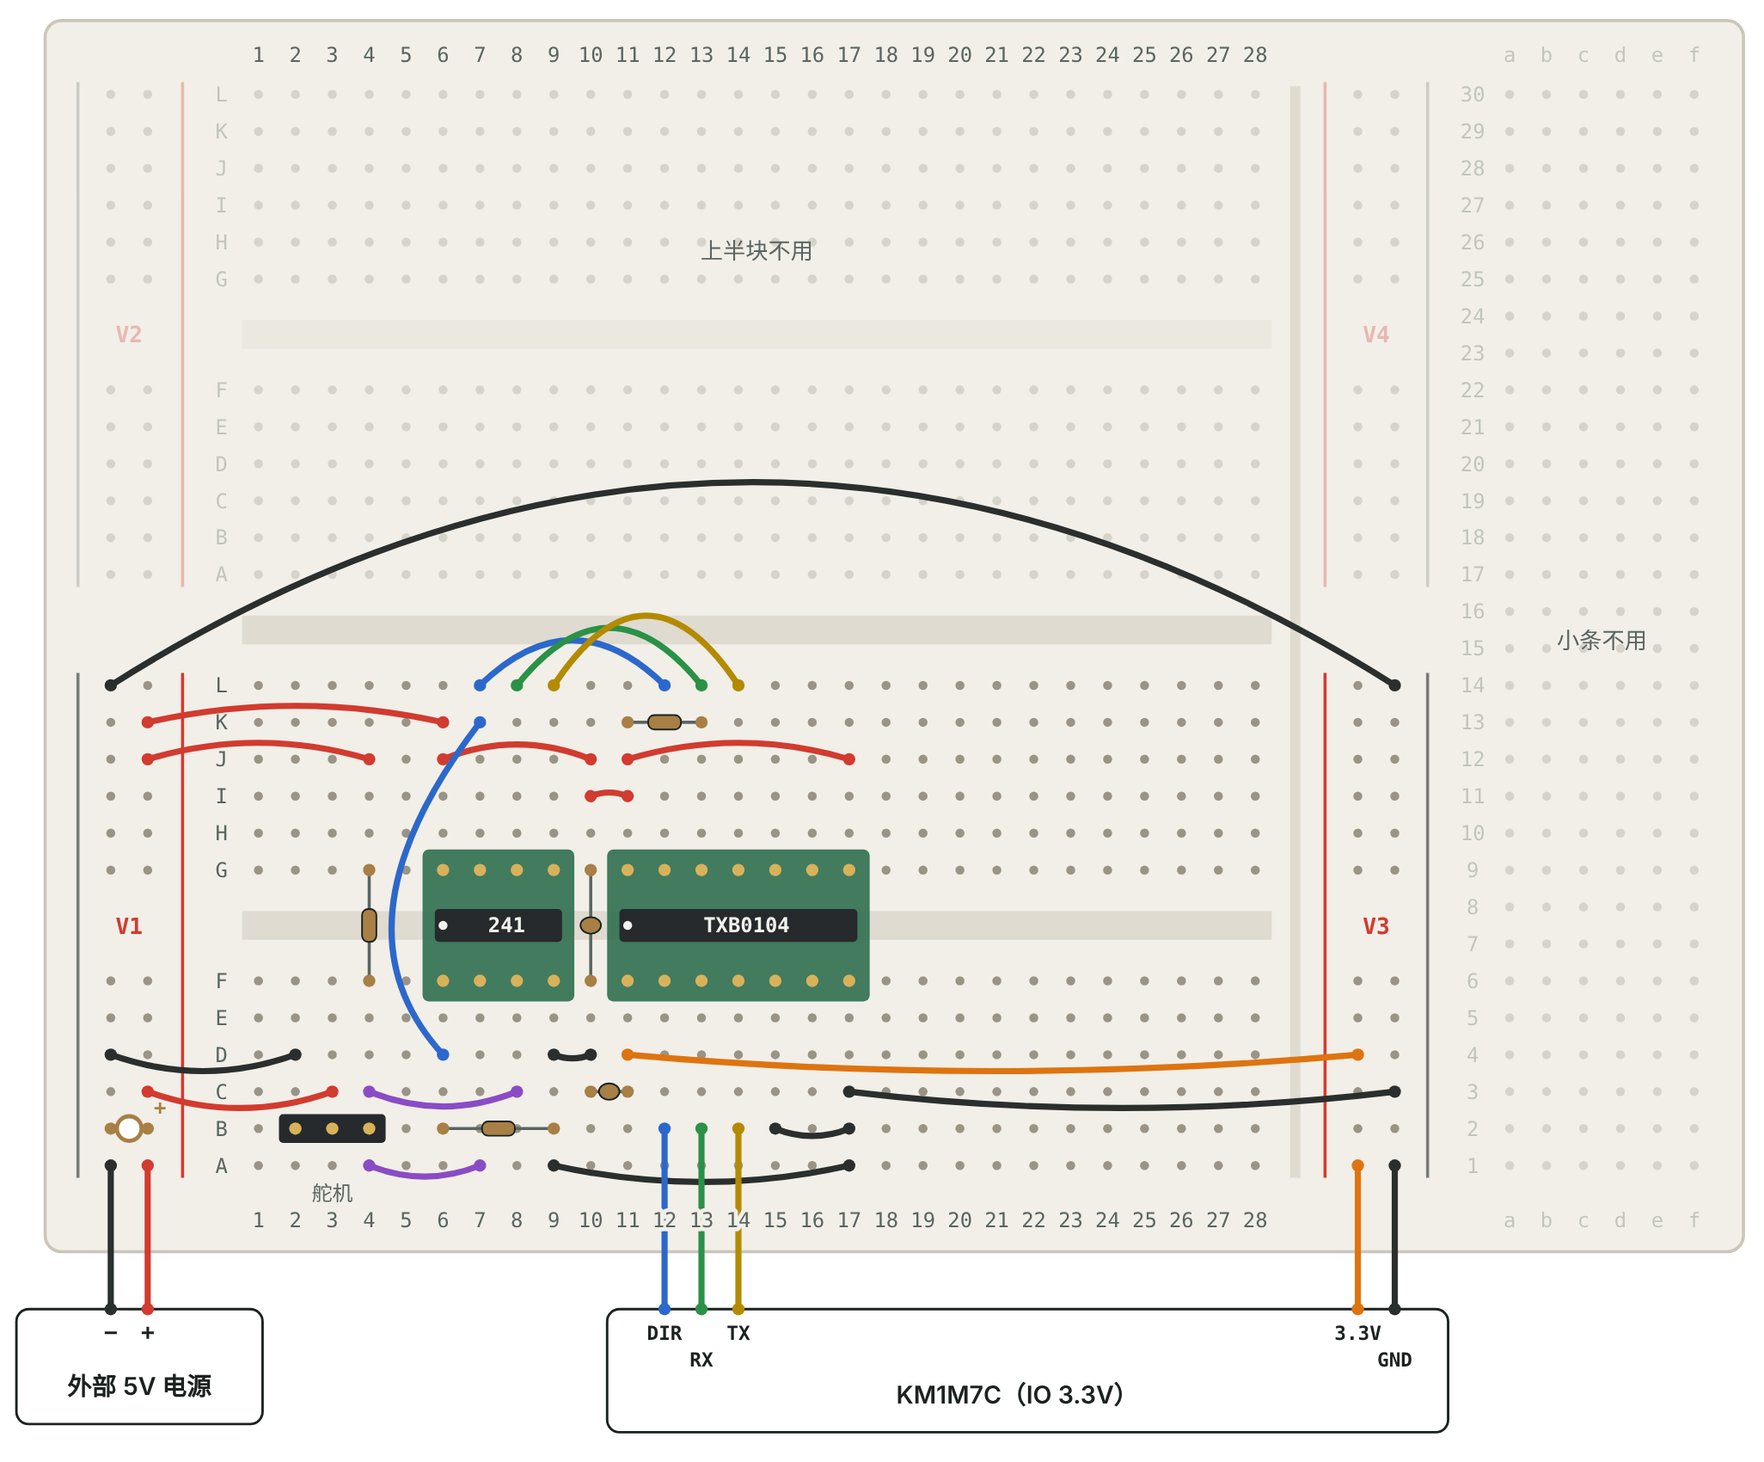
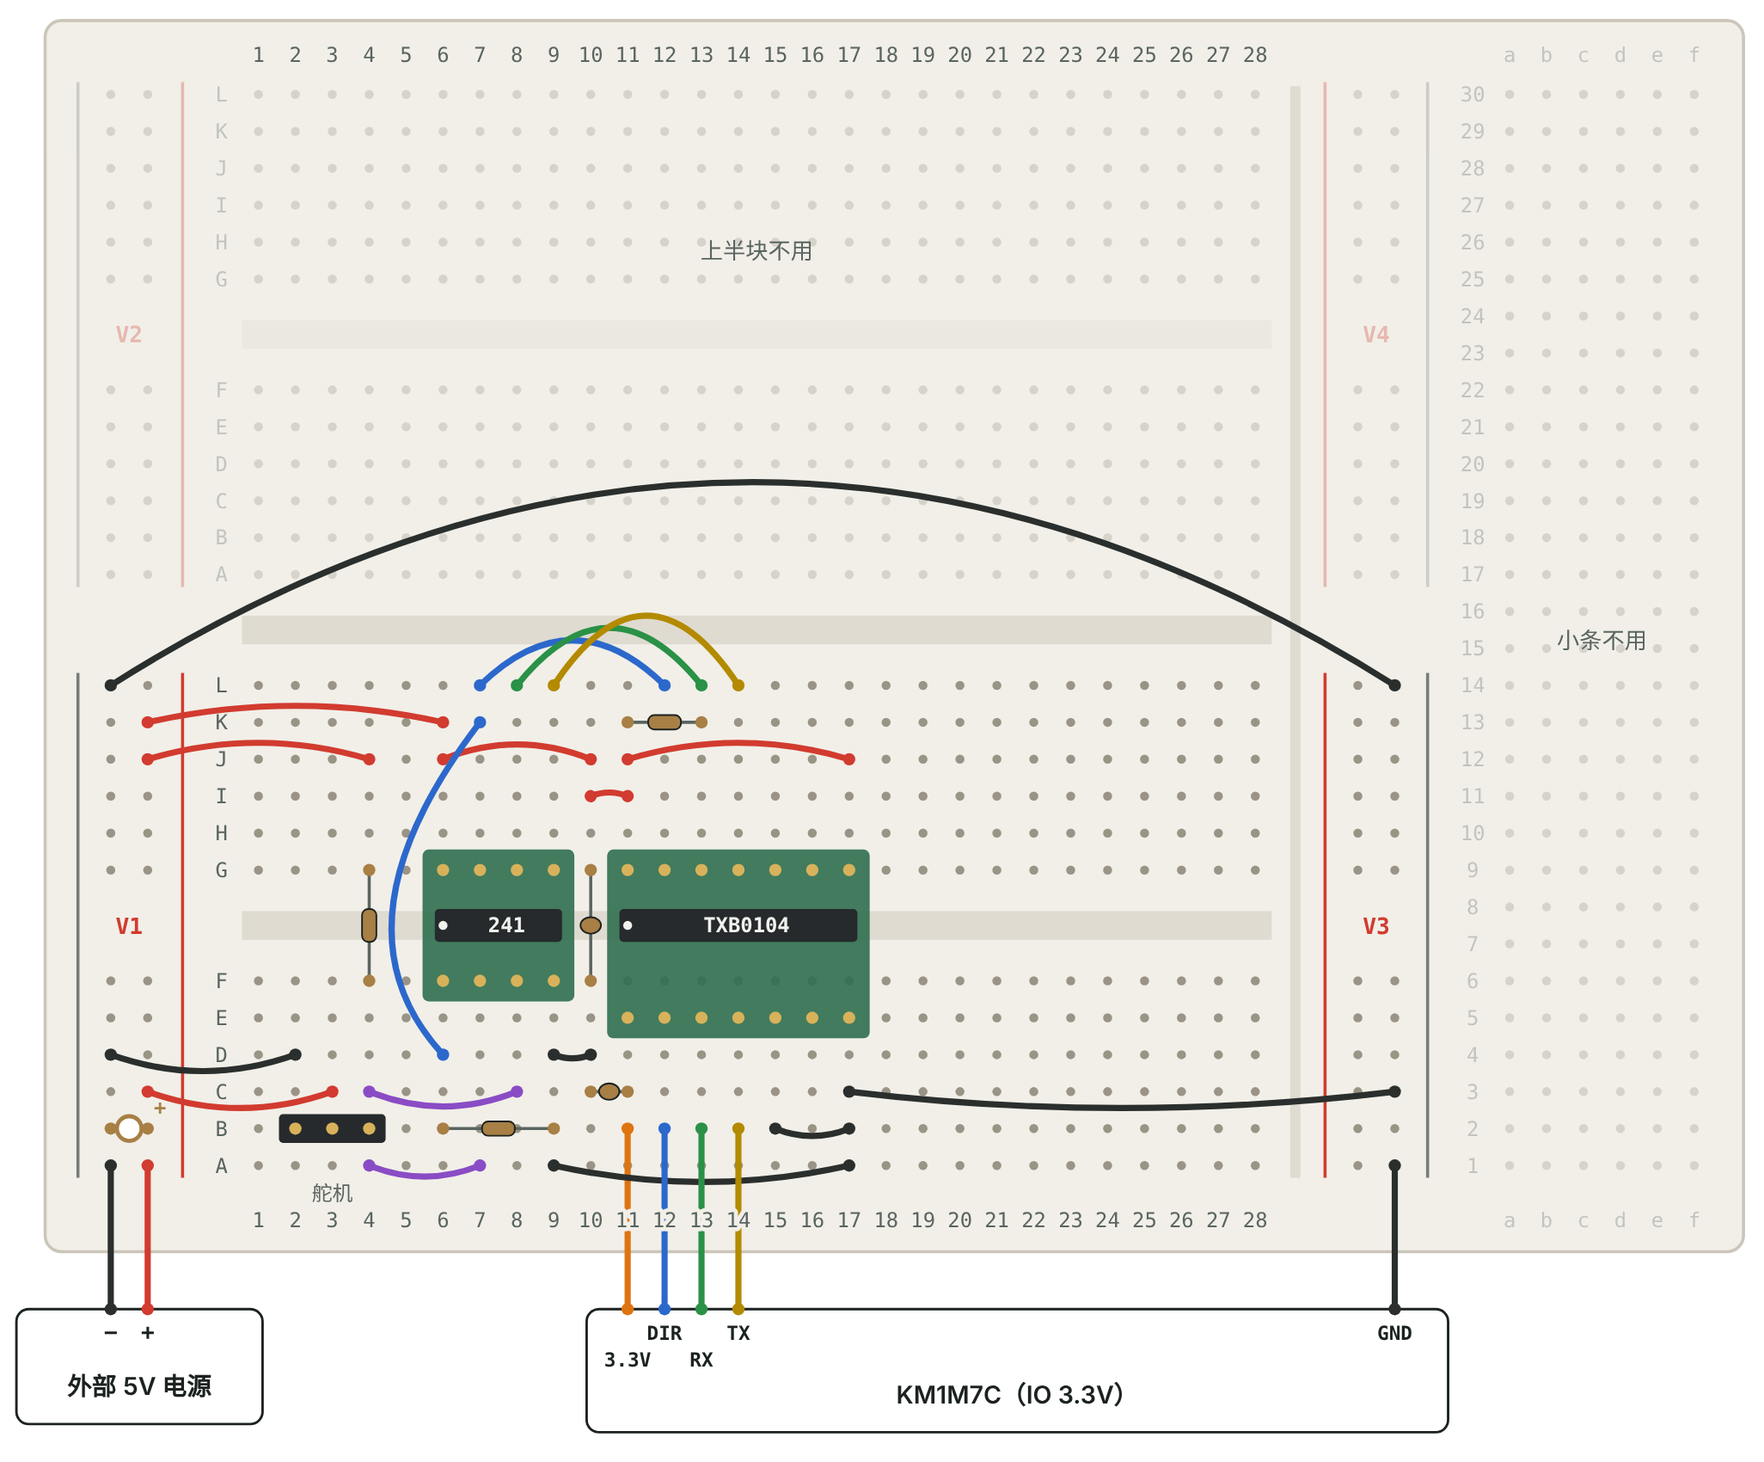
Seat the wider TXB0104 adapter in rows G and E
The TXB0104 adapter has 0.4" row spacing, so its pins go in rows G and E
while the 74LVC2G241 stays in G and F. E and F are on the same strip, so
the circuit is unchanged. To keep clear of the adapter edge, the MCU 3.3V
now goes straight to the VCCA column (11B) instead of via the V3 rail.

Claude-Session: https://claude.ai/code/session_01WiTXKFSppvefth2JxyFg7v

diff --git a/docs/breadboard/xl330_breadboard.html b/docs/breadboard/xl330_breadboard.html
@@ -156,10 +156,10 @@ ol.steps{margin:0;padding-left:1.4em;display:grid;gap:8px;max-width:72ch}
     <h2 id="w-h" style="font-size:16px">动手前先看这五条</h2>
     <ol>
       <li>面包板按照片的方向放：V1、V2 电源轨在左边，最右边是 1–30 的小条。只用下半块，也就是 V1 和 V3 中间那一块（28 列，槽两边各 6 个孔）。上半块、V2、V4 和小条都不用。</li>
-      <li><b>V1 = 外部 5V 和 GND，V3 = MCU 的 3.3V 和 GND。</b>每条电源轨里，靠里（红线）那列是 +，靠外（黑线）那列是 −。先贴胶带标注。</li>
+      <li><b>V1 = 外部 5V 和 GND，V3 − = MCU 的 GND（V3 + 不用）。</b>每条电源轨里，靠里（红线）那列是 +，靠外（黑线）那列是 −。先贴胶带标注。MCU 的 3.3V 直接插到第 11 列。</li>
       <li>MCU 板的 5V 引脚空着不接。同一条电源线上只能有一个电源。</li>
       <li>所有 GND 都要连在一起：外部电源的地和 MCU 的地靠 P1 那根长线接通。</li>
-      <li>两块转接板的 1 脚（圆点）都朝左下：在槽下方（A–F 一侧）、靠 V1 那头。TXB0104 若是成品模块（丝印 VA、VB、A1…），按丝印名字接，列号只作参考。</li>
+      <li>两块转接板的 1 脚（圆点）都朝左下：在槽下方（A–F 一侧）、靠 V1 那头。241 的两排针插 G 行和 F 行；TXB0104 的转接板宽一些，两排针插 G 行和 E 行。E 和 F 同属槽下方那一组，电气上一样。</li>
     </ol>
   </section>
 
@@ -256,7 +256,7 @@ ol.steps{margin:0;padding-left:1.4em;display:grid;gap:8px;max-width:72ch}
     <p class="lede">按你照片里这块板画的，方向也和照片一样。这块板的电源轨在列的两头（左边 V1/V2，右边 V3/V4），不是沿着列走，所以用第 10 列做了一个 5V 和 GND 的中转点，两颗芯片的电源从这里接，线更短。点下面清单里的任意一条，图上会只突出那一根线。</p>
     <div class="frame"><svg id="bb" class="bb" viewBox="104 14 860 712" role="img" aria-labelledby="bb-t"><title id="bb-t">你的面包板上的元件位置与接线</title><g id="bb-g"></g></svg></div>
     <div class="legend">
-      <span><i class="sw c-5"></i>5V（V1 +，外部电源）</span><span><i class="sw c-33"></i>3.3V（V3 +，MCU）</span><span><i class="sw c-g"></i>GND（V1 −、V3 −）</span><span><i class="sw c-part"></i>电阻 / 电容</span>
+      <span><i class="sw c-5"></i>5V（V1 +，外部电源）</span><span><i class="sw c-33"></i>3.3V（MCU 直接接第 11 列）</span><span><i class="sw c-g"></i>GND（V1 −、V3 −）</span><span><i class="sw c-part"></i>电阻 / 电容</span>
     </div>
   </section>
 
@@ -270,15 +270,15 @@ ol.steps{margin:0;padding-left:1.4em;display:grid;gap:8px;max-width:72ch}
         <tr><td>2</td><td>—</td><td>舵机 1 号线 GND</td></tr>
         <tr><td>3</td><td>—</td><td>舵机 2 号线 VDD（外部 5V）</td></tr>
         <tr><td>4</td><td>5V（给 R1）</td><td>舵机 3 号线 DATA，DATA 汇合点</td></tr>
-        <tr class="grp"><td colspan="3">74LVC2G241（第 6–9 列）</td></tr>
+        <tr class="grp"><td colspan="3">74LVC2G241（第 6–9 列，针插 G 行和 F 行）</td></tr>
         <tr><td>6</td><td>8 VCC · 5V</td><td>1 1OE · DIR</td></tr>
         <tr><td>7</td><td>7 2OE · DIR</td><td>2 1A · DATA</td></tr>
         <tr><td>8</td><td>6 1Y · RX</td><td>3 2Y · DATA</td></tr>
         <tr><td>9</td><td>5 2A · TX</td><td>4 GND</td></tr>
         <tr class="grp"><td colspan="3">中转（第 10 列）</td></tr>
         <tr><td>10</td><td>5V</td><td>GND</td></tr>
-        <tr class="grp"><td colspan="3">TXB0104（第 11–17 列）</td></tr>
-        <tr><td>11</td><td>14 VCCB · 5V</td><td>1 VCCA · 3.3V</td></tr>
+        <tr class="grp"><td colspan="3">TXB0104（第 11–17 列，针插 G 行和 E 行）</td></tr>
+        <tr><td>11</td><td>14 VCCB · 5V</td><td>1 VCCA · 3.3V（MCU 直接接）</td></tr>
         <tr><td>12</td><td>13 B1 · DIR（接 241）</td><td>2 A1 · DIR（接 MCU）</td></tr>
         <tr><td>13</td><td>12 B2 · RX（接 241）</td><td>3 A2 · RX（接 MCU）</td></tr>
         <tr><td>14</td><td>11 B3 · TX（接 241）</td><td>4 A3 · TX（接 MCU）</td></tr>
@@ -314,8 +314,8 @@ ol.steps{margin:0;padding-left:1.4em;display:grid;gap:8px;max-width:72ch}
     <div>
       <h2>上电前检查</h2>
       <ol class="steps">
-        <li>接完第 1 组、插芯片之前：万用表打到蜂鸣档，测 V1 + 对 V1 −、V3 + 对 V3 −，都不能响。再测 V1 + 最上面和最下面两个孔，应该响，说明整条是通的；V1 −、V3 +、V3 − 也一样测。</li>
-        <li>外部电源通电，测 V1 + 对 V1 − 约 5V；插上 MCU 的 USB，测 V3 + 对 V3 − 约 3.3V。确认后都断电。</li>
+        <li>接完第 1 组、插芯片之前：万用表打到蜂鸣档，测 V1 + 对 V1 −，不能响。再测 V1 + 最上面和最下面两个孔，应该响，说明整条是通的；V1 −、V3 − 也一样测。</li>
+        <li>外部电源通电，测 V1 + 对 V1 − 约 5V；插上 MCU 的 USB，测第 11 列槽下方对 V3 − 约 3.3V。确认后都断电。</li>
         <li>接完芯片供电后再上电：TXB0104 第 1 脚约 3.3V、第 14 脚约 5V，74LVC2G241 第 8 脚约 5V。</li>
         <li>舵机线先别插，测第 3 列对第 2 列约 5V（舵机 VDD 对 GND）。</li>
         <li>上电顺序：先插 MCU 的 USB，再开外部 5V；断电顺序相反。顺序反了也不会损坏芯片，TXB0104 有一侧没电时输出会变成高阻。</li>
@@ -391,7 +391,7 @@ ol.steps{margin:0;padding-left:1.4em;display:grid;gap:8px;max-width:72ch}
   const UROW={L:60,K:78,J:96,I:114,H:132,G:150,F:204,E:222,D:240,C:258,B:276,A:294};
   const RAILX={V1N:158,V1P:176,V3P:766,V3N:784};
   const RAILNAME={V1N:'V1 −',V1P:'V1 +',V3P:'V3 +',V3N:'V3 −'};
-  const MCU={DIR:[428,652],RX:[446,652],TX:[464,652],'3V3':[766,652],GND:[784,652]};
+  const MCU={'3V3':[410,652],DIR:[428,652],RX:[446,652],TX:[464,652],GND:[784,652]};
   const EXT={'+':[176,652],'-':[158,652]};
   const COL={'5':'var(--w5)','33':'var(--w33)','g':'var(--wg)','rx':'var(--wrx)','tx':'var(--wtx)','dir':'var(--wdir)','data':'var(--wdata)','part':'var(--part)'};
   const CN={'5':'红','33':'橙','g':'黑','rx':'绿','tx':'黄','dir':'蓝','data':'紫'};
@@ -403,25 +403,24 @@ ol.steps{margin:0;padding-left:1.4em;display:grid;gap:8px;max-width:72ch}
       ['E1','w','EXT:+','V1P:A','5','V1 +（红线一侧，靠里那列）从此是外部 5V','',{b:0}],
       ['E2','w','EXT:-','V1N:A','g','V1 −（黑线一侧，靠外那列）是 GND','',{b:0}],
       ['C4','e','V1P:B','V1N:B','part','直接插在 V1 的 + 和 − 上。电解电容有极性，长脚是 +，接反会损坏','100µF'],
-      ['M1','w','MCU:3V3','V3P:A','33','V3 +（靠里那列）从此是 3.3V','',{b:0}],
-      ['M2','w','MCU:GND','V3N:A','g','V3 −（靠外那列）是 GND','',{b:0}],
+      ['M2','w','MCU:GND','V3N:A','g','V3 −（靠外那列）是 GND。V3 + 不用','',{b:0}],
       ['P1','w','V1N:L','V3N:L','g','把两条 GND 连通。外部电源的地和 MCU 的地必须接在一起，这根线要长一点，从板子上方绕过去','',{ctrl:[471,150]}]]},
     {t:'舵机排针',items:[
       ['K3','k','插入 3 针排针：2B、3B、4B','','','舵机线按 2 = GND（1 号）、3 = VDD（2 号）、4 = DATA（3 号）接上'],
       ['P2','w','V1N:D','2D','g','舵机 GND'],
       ['P3','w','V1P:C','3C','5','舵机 VDD = 外部 5V']]},
     {t:'74LVC2G241 和中转列',items:[
-      ['K2','k','插入 74LVC2G241 转接板','','','第 6–9 列，跨在槽上，1 脚（圆点）在第 6 列槽下方'],
+      ['K2','k','插入 74LVC2G241 转接板','','','第 6–9 列，一排针插 G 行、一排插 F 行，1 脚（圆点）在 6F'],
       ['P4','w','V1P:K','6K','5','8 脚 VCC = 5V'],
       ['P5','w','6J','10J','5','把 5V 引到第 10 列槽上方（中转）'],
       ['P6','w','9D','10D','g','把 241 的 GND（4 脚）引到第 10 列槽下方（中转）'],
       ['C2','c','10G','10F','part','跨过槽，接在 5V 和 GND 中转之间的去耦电容','0.1µF'],
       ['R3','r','6B','9B','part','DIR 下拉（1OE ↔ GND）','100kΩ']]},
     {t:'TXB0104 供电',items:[
-      ['K1','k','插入 TXB0104 转接板','','','第 11–17 列，跨在槽上，1 脚（圆点）在第 11 列槽下方'],
+      ['K1','k','插入 TXB0104 转接板','','','第 11–17 列，这块转接板宽一些：一排针插 G 行、一排插 E 行，1 脚（圆点）在 11E'],
       ['P7','w','10I','11I','5','14 脚 VCCB = 5V'],
       ['P8','w','11J','17J','5','8 脚 OE 接 5V，芯片一直工作'],
-      ['P9','w','V3P:D','11D','33','1 脚 VCCA = 3.3V'],
+      ['M1','w','MCU:3V3','11B','33','1 脚 VCCA = 3.3V，MCU 的 3.3V 直接插到这里','',{b:0}],
       ['C1','c','10C','11C','part','VCCA 去耦电容（3.3V ↔ GND）','0.1µF'],
       ['P10','w','17C','V3N:C','g','7 脚 GND 接 V3 −'],
       ['P11','w','9A','17A','g','241 的 GND 和 TXB0104 的 GND 连通'],
@@ -500,17 +499,17 @@ ol.steps{margin:0;padding-left:1.4em;display:grid;gap:8px;max-width:72ch}
     h+='<line class="prt-red" x1="750" y1="342" x2="750" y2="588"/><line class="prt-blk" x1="800" y1="342" x2="800" y2="588"/>';
     h+='<text class="rlab" x="167" y="469" text-anchor="middle">V1</text><text class="rlab" x="775" y="469" text-anchor="middle">V3</text>';
     // chips
-    function chip(c1,n,name){
+    function chip(c1,n,name,low){
       const c2=c1+n-1, x1=cx(c1)-10, x2=cx(c2)+10;
-      let s='<rect class="adapter" x="'+x1+'" y="428" width="'+(x2-x1)+'" height="74" rx="3"/>';
+      let s='<rect class="adapter" x="'+x1+'" y="428" width="'+(x2-x1)+'" height="'+(low+10-428)+'" rx="3"/>';
       s+='<rect class="chipbody" x="'+(x1+6)+'" y="457" width="'+(x2-x1-12)+'" height="16" rx="2"/>';
       s+='<text class="chiptxt" x="'+((x1+x2)/2+4)+'" y="468.5" text-anchor="middle">'+name+'</text>';
-      for(let c=c1;c<=c2;c++){s+='<circle class="pin" cx="'+cx(c)+'" cy="438" r="3"/><circle class="pin" cx="'+cx(c)+'" cy="492" r="3"/>';}
+      for(let c=c1;c<=c2;c++){s+='<circle class="pin" cx="'+cx(c)+'" cy="438" r="3"/><circle class="pin" cx="'+cx(c)+'" cy="'+low+'" r="3"/>';}
       s+='<circle class="p1" cx="'+cx(c1)+'" cy="465" r="2.2"/>';
       return s;
     }
-    h+=chip(6,4,'241');
-    h+=chip(11,7,'TXB0104');
+    h+=chip(6,4,'241',LROW.F);
+    h+=chip(11,7,'TXB0104',LROW.E);
     h+='<rect class="chipbody" x="'+(cx(2)-8)+'" y="557" width="'+(2*P+16)+'" height="14" rx="2"/>';
     for(let c=2;c<=4;c++) h+='<circle class="pin" cx="'+cx(c)+'" cy="564" r="3"/>';
     h+='<text x="'+cx(3)+'" y="599" text-anchor="middle">舵机</text>';
@@ -518,8 +517,8 @@ ol.steps{margin:0;padding-left:1.4em;display:grid;gap:8px;max-width:72ch}
     h+='<rect class="mcu" x="112" y="652" width="120" height="56" rx="6"/>';
     h+='<text class="pinlab" x="176" y="667" text-anchor="middle">+</text><text class="pinlab" x="158" y="667" text-anchor="middle">−</text>';
     h+='<text class="boxlab" x="172" y="694" text-anchor="middle">外部 5V 电源</text>';
-    h+='<rect class="mcu" x="400" y="652" width="410" height="60" rx="6"/>';
-    [['DIR',428,667],['RX',446,680],['TX',464,667],['3.3V',766,667],['GND',784,680]].forEach(p=>{h+='<text class="pinlab" x="'+p[1]+'" y="'+p[2]+'" text-anchor="middle" style="font-size:9.5px">'+p[0]+'</text>';});
+    h+='<rect class="mcu" x="390" y="652" width="420" height="60" rx="6"/>';
+    [['3.3V',410,680],['DIR',428,667],['RX',446,680],['TX',464,667],['GND',784,667]].forEach(p=>{h+='<text class="pinlab" x="'+p[1]+'" y="'+p[2]+'" text-anchor="middle" style="font-size:9.5px">'+p[0]+'</text>';});
     h+='<text class="boxlab" x="600" y="698" text-anchor="middle">KM1M7C（IO 3.3V）</text>';
     // wires and parts
     eachItem(it=>{

diff --git a/docs/breadboard/README.md b/docs/breadboard/README.md
@@ -17,10 +17,10 @@
 ## 动手前先看
 
 1. 面包板按照片的方向放：V1、V2 电源轨在左边，最右边是 1–30 的小条。只用下半块，也就是 V1 和 V3 中间那一块（28 列，槽两边各 6 个孔）。上半块、V2、V4 和小条都不用。
-2. **V1 = 外部 5V 和 GND，V3 = MCU 的 3.3V 和 GND。** 每条电源轨里，靠里（红线）那列是 +，靠外（黑线）那列是 −。先贴胶带标注。
+2. **V1 = 外部 5V 和 GND，V3 − = MCU 的 GND（V3 + 不用）。** 每条电源轨里，靠里（红线）那列是 +，靠外（黑线）那列是 −。先贴胶带标注。MCU 的 3.3V 直接插到第 11 列。
 3. MCU 板的 5V 引脚空着不接。同一条电源线上只能有一个电源。
 4. 所有 GND 都要连在一起：外部电源的地和 MCU 的地靠 P1 那根长线接通。
-5. 两块转接板的 1 脚（圆点）都朝左下：在槽下方（A–F 一侧）、靠 V1 那头。TXB0104 若是成品模块（丝印 VA、VB、A1…），按丝印名字接，列号只作参考。
+5. 两块转接板的 1 脚（圆点）都朝左下：在槽下方（A–F 一侧）、靠 V1 那头。241 的两排针插 G 行和 F 行；TXB0104 的转接板宽一些，两排针插 G 行和 E 行。E 和 F 同属槽下方那一组，电气上一样。
 
 ## 电路图
 
@@ -43,12 +43,12 @@
 | 2 | — | 舵机 1 号线 GND（排针插 B 行） |
 | 3 | — | 舵机 2 号线 VDD（外部 5V） |
 | 4 | 5V（给 R1） | 舵机 3 号线 DATA，DATA 汇合点 |
-| 6 | 241 8 VCC · 5V | 241 1 1OE · DIR |
+| 6 | 241 8 VCC · 5V（241 针插 G、F 行） | 241 1 1OE · DIR |
 | 7 | 241 7 2OE · DIR | 241 2 1A · DATA |
 | 8 | 241 6 1Y · RX | 241 3 2Y · DATA |
 | 9 | 241 5 2A · TX | 241 4 GND |
 | 10 | 5V 中转 | GND 中转 |
-| 11 | TXB 14 VCCB · 5V | TXB 1 VCCA · 3.3V |
+| 11 | TXB 14 VCCB · 5V（TXB 针插 G、E 行） | TXB 1 VCCA · 3.3V（MCU 直接接） |
 | 12 | TXB 13 B1 · DIR（接 241） | TXB 2 A1 · DIR（接 MCU） |
 | 13 | TXB 12 B2 · RX（接 241） | TXB 3 A2 · RX（接 MCU） |
 | 14 | TXB 11 B3 · TX（接 241） | TXB 4 A3 · TX（接 MCU） |
@@ -66,25 +66,24 @@
 | E1 | 外部 5V + → V1 + | 红 | V1 +（红线一侧，靠里那列）从此是外部 5V |
 | E2 | 外部电源 − → V1 − | 黑 | V1 −（黑线一侧，靠外那列）是 GND |
 | C4 | 100µF：+ 脚 V1 +，− 脚 V1 − | 元件 | 直接插在 V1 的 + 和 − 上。电解电容有极性，长脚是 +，接反会损坏 |
-| M1 | MCU 3.3V → V3 + | 橙 | V3 +（靠里那列）从此是 3.3V |
-| M2 | MCU GND → V3 − | 黑 | V3 −（靠外那列）是 GND |
+| M2 | MCU GND → V3 − | 黑 | V3 −（靠外那列）是 GND。V3 + 不用 |
 | P1 | V1 − → V3 − | 黑 | 把两条 GND 连通。外部电源的地和 MCU 的地必须接在一起，这根线要长一点，从板子上方绕过去 |
 | **2** | **舵机排针** | |  |
 | K3 | 插入 3 针排针：2B、3B、4B |  | 舵机线按 2 = GND（1 号）、3 = VDD（2 号）、4 = DATA（3 号）接上 |
 | P2 | V1 − → 2D | 黑 | 舵机 GND |
 | P3 | V1 + → 3C | 红 | 舵机 VDD = 外部 5V |
 | **3** | **74LVC2G241 和中转列** | |  |
-| K2 | 插入 74LVC2G241 转接板 |  | 第 6–9 列，跨在槽上，1 脚（圆点）在第 6 列槽下方 |
+| K2 | 插入 74LVC2G241 转接板 |  | 第 6–9 列，一排针插 G 行、一排插 F 行，1 脚（圆点）在 6F |
 | P4 | V1 + → 6K | 红 | 8 脚 VCC = 5V |
 | P5 | 6J → 10J | 红 | 把 5V 引到第 10 列槽上方（中转） |
 | P6 | 9D → 10D | 黑 | 把 241 的 GND（4 脚）引到第 10 列槽下方（中转） |
 | C2 | 0.1µF：10G ↔ 10F | 元件 | 跨过槽，接在 5V 和 GND 中转之间的去耦电容 |
 | R3 | 100kΩ：6B ↔ 9B | 元件 | DIR 下拉（1OE ↔ GND） |
 | **4** | **TXB0104 供电** | |  |
-| K1 | 插入 TXB0104 转接板 |  | 第 11–17 列，跨在槽上，1 脚（圆点）在第 11 列槽下方 |
+| K1 | 插入 TXB0104 转接板 |  | 第 11–17 列，这块转接板宽一些：一排针插 G 行、一排插 E 行，1 脚（圆点）在 11E |
 | P7 | 10I → 11I | 红 | 14 脚 VCCB = 5V |
 | P8 | 11J → 17J | 红 | 8 脚 OE 接 5V，芯片一直工作 |
-| P9 | V3 + → 11D | 橙 | 1 脚 VCCA = 3.3V |
+| M1 | MCU 3.3V → 11B | 橙 | 1 脚 VCCA = 3.3V，MCU 的 3.3V 直接插到这里 |
 | C1 | 0.1µF：10C ↔ 11C | 元件 | VCCA 去耦电容（3.3V ↔ GND） |
 | P10 | 17C → V3 − | 黑 | 7 脚 GND 接 V3 − |
 | P11 | 9A → 17A | 黑 | 241 的 GND 和 TXB0104 的 GND 连通 |
@@ -107,8 +106,8 @@
 
 ## 上电前检查
 
-1. 接完第 1 组、插芯片之前：万用表打到蜂鸣档，测 V1 + 对 V1 −、V3 + 对 V3 −，都不能响。再测 V1 + 最上面和最下面两个孔，应该响，说明整条是通的；V1 −、V3 +、V3 − 也一样测。
-2. 外部电源通电，测 V1 + 对 V1 − 约 5V；插上 MCU 的 USB，测 V3 + 对 V3 − 约 3.3V。确认后都断电。
+1. 接完第 1 组、插芯片之前：万用表打到蜂鸣档，测 V1 + 对 V1 −，不能响。再测 V1 + 最上面和最下面两个孔，应该响，说明整条是通的；V1 −、V3 − 也一样测。
+2. 外部电源通电，测 V1 + 对 V1 − 约 5V；插上 MCU 的 USB，测第 11 列槽下方对 V3 − 约 3.3V。确认后都断电。
 3. 接完芯片供电后再上电：TXB0104 第 1 脚约 3.3V、第 14 脚约 5V，74LVC2G241 第 8 脚约 5V。
 4. 舵机线先别插，测第 3 列对第 2 列约 5V（舵机 VDD 对 GND）。
 5. 上电顺序：先插 MCU 的 USB，再开外部 5V；断电顺序相反。顺序反了也不会损坏芯片，TXB0104 有一侧没电时输出会变成高阻。
